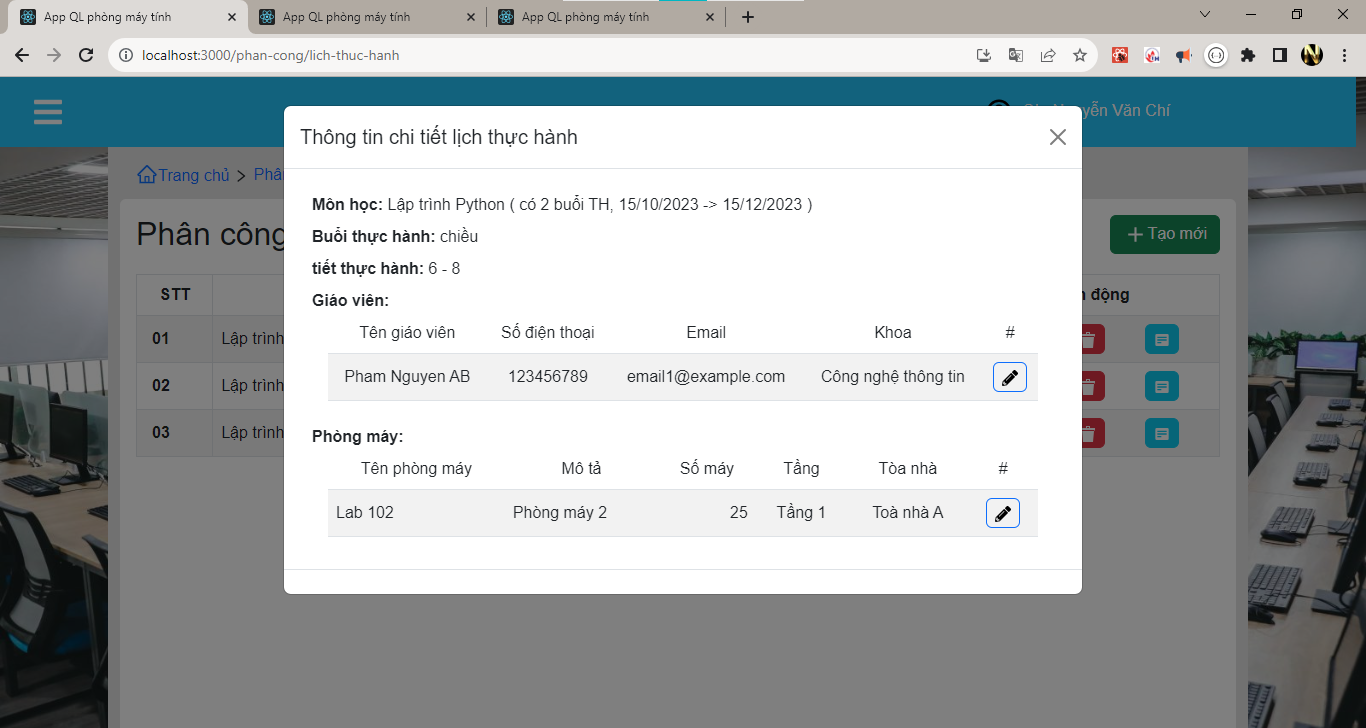
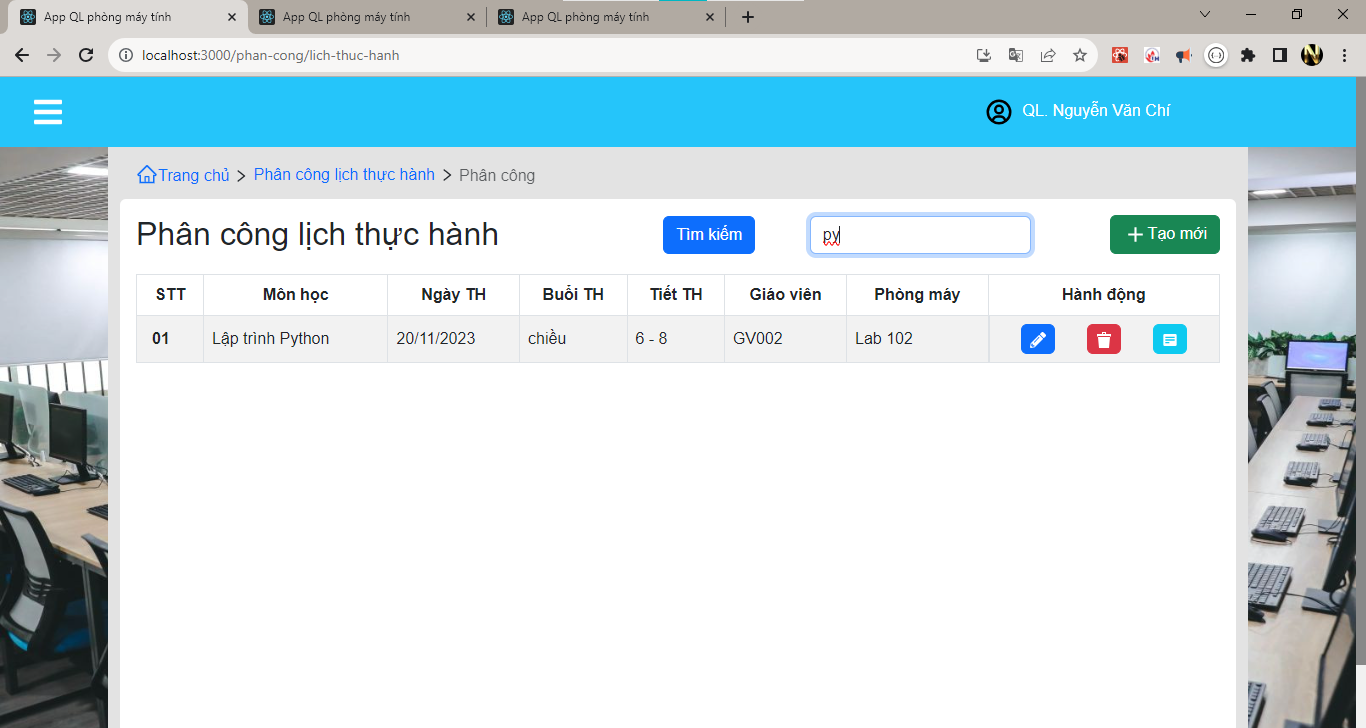
Ql Lich TH: finish search theo text

diff --git a/src/pages/PagePhanCongLich/PageLichThucHanh.jsx b/src/pages/PagePhanCongLich/PageLichThucHanh.jsx
@@ -9,8 +9,14 @@ import Footer from "../../components/common/Footer/Footer";
 import NavTab from "../../components/common/NavTab/NavTab";
 import { NavLink, useNavigate } from "react-router-dom";
 import { useDispatch, useSelector } from "react-redux";
-import { getAllCaThucHanhApi, setObjDetailCaThucHanh } from "../../redux/reducers/lichThucHanhReducer";
+import {
+  getAllCaThucHanhApi,
+  setObjDetailCaThucHanh,
+  setValueSelSearchCaTHAction,
+} from "../../redux/reducers/lichThucHanhReducer";
 import ModalDetailLichThucHanh from "../../components/layout/Detail/ModalDetailLichThucHanh/ModalDetailLichThucHanh";
+import { formatStringDate } from "../../util/config";
+import ModalSearchLichThucHanh from "../../components/layout/Modal/ModalSearchLichThucHanh";
 
 //
 export default function PageLichThucHanh() {
@@ -29,22 +35,21 @@ export default function PageLichThucHanh() {
     }
   }, []);
   //
+  //hanle 
+  //
+  const handleChangeSearch = (e) => {
+    dispatch(setValueSelSearchCaTHAction(e.target.value))
+  }
+  //
   //render
   //
   const renderDataLichThucHanh = () => {
     //  ===============
     return arrCaThucHanhSearch?.map((item, index) => {
-      let tgian = new Date(item.ngayTruc);
-      let strThang = "";
-      if (tgian.getMonth() < 9) {
-        strThang = `0${tgian.getMonth() + 1}`;
-      } else {
-        strThang = tgian.getMonth() + 1;
-      }
-      let strTgian = `tháng ${strThang} - ${tgian.getFullYear()}`;
+      let tgian = new Date(item.ngayThucHanh);
+
       let strTietTH = `${item.tietBatDau} - ${item.tietKetThuc}`;
 
-      
       return (
         <>
           <tr key={index}>
@@ -52,6 +57,7 @@ export default function PageLichThucHanh() {
               {index < 9 ? `0${index + 1}` : index + 1}
             </td>
             <td>{item.monHoc.tenMon}</td>
+            <td>{formatStringDate(tgian)}</td>
             <td>{item.tenCa}</td>
             <td>{strTietTH}</td>
             <td>{item.giaoVien.maGiaoVien}</td>
@@ -118,6 +124,7 @@ export default function PageLichThucHanh() {
       <div className="container " style={{ height: "100vh" }}>
         {/*  */}
         <ModalDetailLichThucHanh />
+        <ModalSearchLichThucHanh />
 
         {/*  */}
         <div
@@ -144,9 +151,19 @@ export default function PageLichThucHanh() {
                 <div></div>
 
                 {/* select - option */}
-                {/* {renderSelectTrangThai()} */}
+
                 <div></div>
-                <div></div>
+                <div>
+                  {/* Button trigger modal */}
+                  <button
+                    type="button"
+                    className="btn btn-primary "
+                    data-bs-toggle="modal"
+                    data-bs-target="#modalIdSearchLichTH"
+                  >
+                    Tìm kiếm
+                  </button>
+                </div>
 
                 {/* input tim kiem */}
                 <div>
@@ -154,7 +171,7 @@ export default function PageLichThucHanh() {
                     type="text"
                     className="form-control"
                     placeholder="tìm kiếm..."
-                    // onChange={handleChangeSearch}
+                    onChange={handleChangeSearch}
                   />
                 </div>
 
@@ -181,6 +198,7 @@ export default function PageLichThucHanh() {
                     <tr>
                       <th>STT</th>
                       <th style={{}}>Môn học</th>
+                      <th style={{}}>Ngày TH</th>
                       <th style={{}}>Buổi TH</th>
                       <th style={{}}>Tiết TH</th>
                       <th style={{}}>Giáo viên</th>

diff --git a/src/components/layout/Modal/ModalSearchLichThucHanh.jsx b/src/components/layout/Modal/ModalSearchLichThucHanh.jsx
@@ -1,0 +1,70 @@
+import React from "react";
+
+let date = new Date();
+let dateYear = date.getFullYear();
+let dateMonth = date.getMonth() + 1;
+let dateDay = date.getDate();
+
+let strDate = `${dateYear}-${dateMonth}-${dateDay}`;
+
+//
+export default function ModalSearchLichThucHanh() {
+  return (
+    <>
+      {/* Modal */}
+      <div
+        className="modal fade"
+        id="modalIdSearchLichTH"
+        tabIndex={-1}
+        role="dialog"
+        aria-labelledby="modalTitleId"
+        aria-hidden="true"
+      >
+        <div className=" modal-dialog" role="document">
+          <div className="modal-content">
+            <div className="modal-header">
+              <h5 className="modal-title text-center" id="modalTitleId">
+                Tìm kiếm lịch thực hành
+              </h5>
+              <button
+                type="button"
+                className="btn-close"
+                data-bs-dismiss="modal"
+                aria-label="Close"
+              />
+            </div>
+            <div className="modal-body">
+              <div className="container-fluid">
+                {/* body */}
+
+                <div className="pt-2">
+                  <strong>- Thời gian thực hành: </strong> <br />
+                  <strong>Từ: 
+                  <input
+                    type="date"
+                    className="col-4 mx-2"
+                    id="dateFrom"
+                    max={strDate}
+                  /> Đến: 
+                  <input
+                    type="date"
+                    className="col-4 mx-2"
+                    id="dateTo"
+                    max={strDate}
+                    disabled={false}
+                  />
+
+
+</strong>
+                </div>
+
+                {/*  */}
+              </div>
+            </div>
+            <div className="modal-footer">{/* footer */}</div>
+          </div>
+        </div>
+      </div>
+    </>
+  );
+}

diff --git a/src/redux/reducers/lichThucHanhReducer.jsx b/src/redux/reducers/lichThucHanhReducer.jsx
@@ -1,8 +1,35 @@
 //rxslice
 
 import { createSlice } from "@reduxjs/toolkit";
-import { http } from "../../util/config";
+import { formatStringDate, http } from "../../util/config";
 
+//
+const fun_Search = (objData) => {
+  let {arrCaThucHanh, valueSearch} =objData
+
+  return dataSearch(arrCaThucHanh, valueSearch)
+}
+const dataSearch = (arrData, valSearch) => {
+  let search = valSearch.toLowerCase();
+  
+  let arrUpdate = arrData.filter((item) => {
+    let tgian = new Date(item.ngayThucHanh);
+
+      let strTietTH = `${item.tietBatDau} - ${item.tietKetThuc}`;
+
+    return (
+      item.monHoc.tenMon.toLowerCase().includes(search) ||
+      formatStringDate(tgian).toLowerCase().includes(search) ||
+      item.tenCa.toLowerCase().includes(search) ||
+      strTietTH.toLowerCase().includes(search) ||
+      item.giaoVien.maGiaoVien.toLowerCase().includes(search) ||
+      item.phongMay.tenPhong.toLowerCase().includes(search) 
+    );
+  });
+  return [...arrUpdate];
+
+}
+//
 const initialState = {
   arrCaThucHanh:[],
   arrCaThucHanhSearch:[],
@@ -16,18 +43,27 @@ const lichThucHanhReducer = createSlice({
   reducers: {
     setArrCaThucHanhAction: (state, action) => {
       state.arrCaThucHanh = action.payload;
-      state.arrCaThucHanhSearch = action.payload;
       state.objDetailCaTH = state.arrCaThucHanh[0]
+
+      state.arrCaThucHanhSearch = fun_Search(state)
     },
     setObjDetailCaThucHanh: (state, action) => {
       state.objDetailCaTH = action.payload;
-    }
+    },
+    setValueSelSearchCaTHAction: (state, action) => {
+      state.valueSearch = action.payload;
+
+      //
+      state.arrCaThucHanhSearch = fun_Search(state)
+    },
+    
   },
 });
 // exp nay de sử dụng theo cách 2
 export const { 
   setArrCaThucHanhAction,
   setObjDetailCaThucHanh,
+  setValueSelSearchCaTHAction
  } = lichThucHanhReducer.actions;
 export default lichThucHanhReducer.reducer;
 

diff --git a/src/components/layout/Detail/ModalDetailLichThucHanh/ModalDetailLichThucHanh.jsx b/src/components/layout/Detail/ModalDetailLichThucHanh/ModalDetailLichThucHanh.jsx
@@ -1,6 +1,6 @@
 import React from "react";
 import { useSelector } from "react-redux";
-import { formatStringDate } from "../../../../util/config";
+import { formatNameByHocVi, formatStringDate } from "../../../../util/config";
 import { FaPencilAlt } from "react-icons/fa";
 import { useNavigate } from "react-router-dom";
 
@@ -88,7 +88,9 @@ export default function ModalDetailLichThucHanh() {
           </thead>
           <tbody>
             <tr>
-              <td className="text-center">{hoTen}</td>
+              <td className="text-center">
+                {formatNameByHocVi({ hocVi, name: hoTen })}
+              </td>
               <td className="text-center">{soDienThoai}</td>
               <td className="text-center">{email}</td>
               <td className="text-center">{khoa.tenKhoa}</td>
